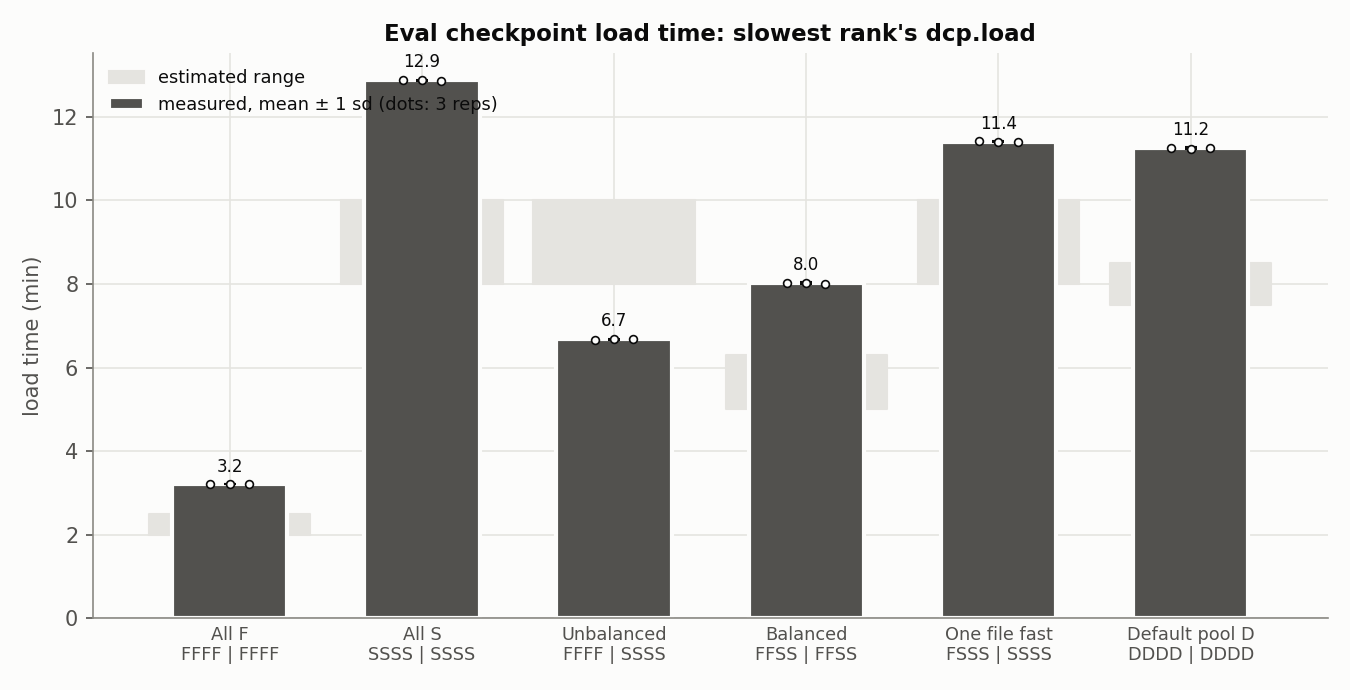
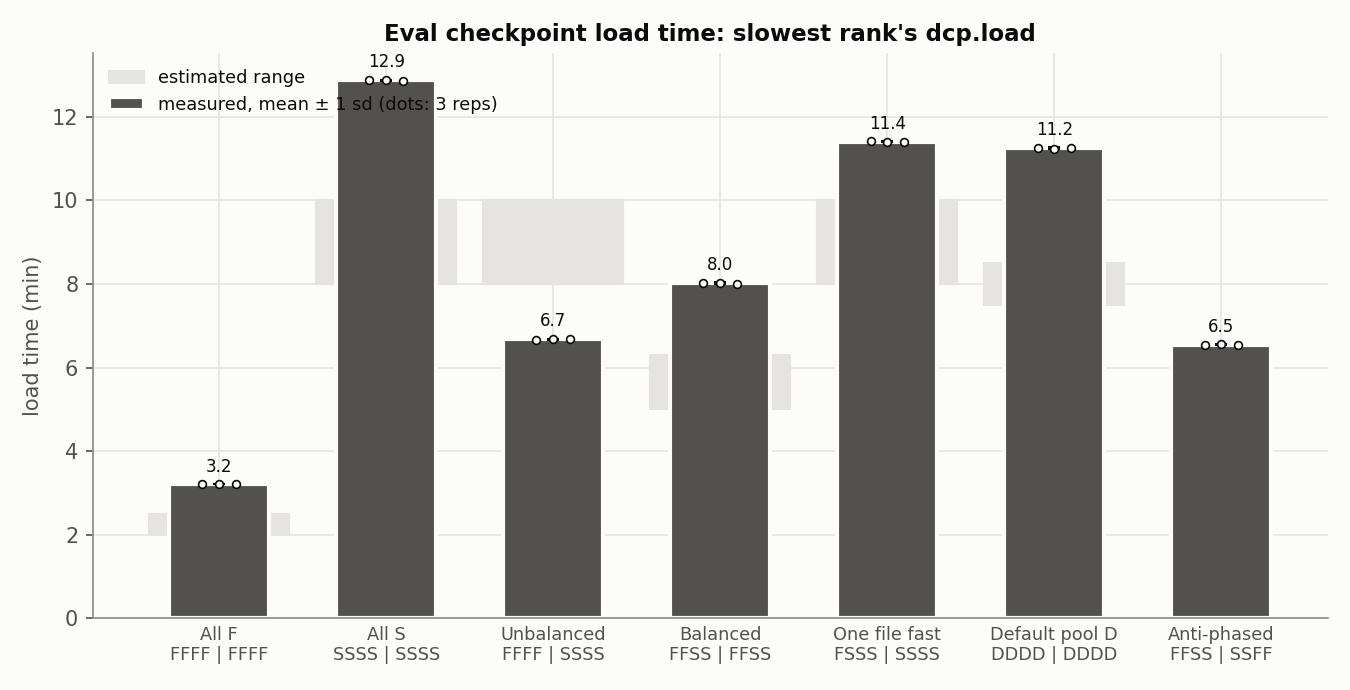
llm_v2 + anti-phased layout, FFSS | SSFF

diff --git a/scripts/workloads/llm_workload_version2/analyze_matrix.py b/scripts/workloads/llm_workload_version2/analyze_matrix.py
@@ -47,7 +47,8 @@ MiB = 1048576
 CHUNK = 512 * 1024
 
 LABEL = {"allF": "All F", "allS": "All S", "unbalanced": "Unbalanced",
-         "balanced": "Balanced", "onefast": "One file fast", "D": "Default pool D"}
+         "balanced": "Balanced", "onefast": "One file fast", "D": "Default pool D",
+         "antiphase": "Anti-phased"}
 # Estimated run time (minutes) from experiment_context.md, drawn as a band.
 PREDICTED = {"allF": (2, 2.5), "allS": (8, 10), "unbalanced": (8, 10),
              "balanced": (5, 6.3), "onefast": (8, 10), "D": (7.5, 8.5)}
@@ -59,7 +60,7 @@ INK, INK2, MUTED, GRID, SURF = "#0b0b0b", "#52514e", "#8a8983", "#e5e4e0", "#fcf
 MEDIUM_C = {"F": "#2a78d6", "S": "#eb6834", "F+S": "#1baf7a"}
 RANK_C = {0: "#52514e", 1: "#a8a7a0"}
 TOTAL_C = "#52514e"
-CATEGORICAL = ["#2a78d6", "#eb6834", "#1baf7a", "#eda100", "#e87ba4", "#008300"]
+CATEGORICAL = ["#2a78d6", "#eb6834", "#1baf7a", "#eda100", "#e87ba4", "#008300", "#7a5cc4"]
 
 plt.rcParams.update({
     "figure.facecolor": SURF, "axes.facecolor": SURF, "savefig.facecolor": SURF,
@@ -303,7 +304,7 @@ def fig_latency_cdf(all_ops, order, cfgs, out):
                                 "lat_ms"].to_numpy())
         if not len(v):
             continue
-        ax.plot(v, np.arange(1, len(v) + 1) / len(v), color=CATEGORICAL[k % 6],
+        ax.plot(v, np.arange(1, len(v) + 1) / len(v), color=CATEGORICAL[k % len(CATEGORICAL)],
                 linewidth=2, label=f"{LABEL.get(c, c)}  ({rank_pattern(cfgs, c)})")
     ax.set_xscale("log")
     ax.set_xlabel("payload read latency (ms, log scale)")

diff --git a/scripts/workloads/llm_workload_version2/results_oct_28/analysis/matrix_summary.md b/scripts/workloads/llm_workload_version2/results_oct_28/analysis/matrix_summary.md
@@ -1,0 +1,10 @@
+| Config | Rank 0 \| Rank 1 | Reps | Load time (min) | Estimate (min) | Rank 0 (min) | Rank 1 (min) | Agg BW (MiB/s) | Framing mean / p95 (ms) | Payload mean / p95 (ms) |
+|---|---|---|---|---|---|---|---|---|---|
+| All F | FFFF \| FFFF | 3 | 3.20 ± 0.00 | 2–2.5 | 3.16 ± 0.01 | 3.20 ± 0.00 | 89.5 ± 0.0 | 9 / 63 | 367 / 689 |
+| All S | SSSS \| SSSS | 3 | 12.87 ± 0.01 | 8–10 | 12.87 ± 0.01 | 12.83 ± 0.04 | 22.3 ± 0.0 | 28 / 176 | 1555 / 2818 |
+| Unbalanced | FFFF \| SSSS | 3 | 6.67 ± 0.02 | 8–10 | 1.72 ± 0.03 | 6.67 ± 0.02 | 42.9 ± 0.1 | 8 / 53 | 506 / 1387 |
+| Balanced | FFSS \| FFSS | 3 | 8.02 ± 0.02 | 5–6.3 | 8.02 ± 0.02 | 8.02 ± 0.03 | 35.7 ± 0.1 | 18 / 109 | 964 / 2758 |
+| One file fast | FSSS \| SSSS | 3 | 11.40 ± 0.01 | 8–10 | 10.24 ± 0.02 | 11.40 ± 0.01 | 25.1 ± 0.0 | 27 / 167 | 1292 / 2759 |
+| Default pool D | DDDD \| DDDD | 3 | 11.25 ± 0.02 | 7.5–8.5 | 11.25 ± 0.02 | 11.24 ± 0.03 | 25.5 ± 0.0 | 23 / 128 | 1366 / 2773 |
+
+± is one standard deviation across reps. Latency columns are the mean over reps of each run's per-read mean and p95.

diff --git a/scripts/workloads/llm_workload_version2/results/analysis/matrix_summary.md b/scripts/workloads/llm_workload_version2/results/analysis/matrix_summary.md
@@ -6,5 +6,6 @@
 | Balanced | FFSS \| FFSS | 3 | 8.02 ± 0.02 | 5–6.3 | 8.02 ± 0.02 | 8.02 ± 0.03 | 35.7 ± 0.1 | 18 / 109 | 964 / 2758 |
 | One file fast | FSSS \| SSSS | 3 | 11.40 ± 0.01 | 8–10 | 10.24 ± 0.02 | 11.40 ± 0.01 | 25.1 ± 0.0 | 27 / 167 | 1292 / 2759 |
 | Default pool D | DDDD \| DDDD | 3 | 11.25 ± 0.02 | 7.5–8.5 | 11.25 ± 0.02 | 11.24 ± 0.03 | 25.5 ± 0.0 | 23 / 128 | 1366 / 2773 |
+| Anti-phased | FFSS \| SSFF | 3 | 6.54 ± 0.01 | nan–nan | 6.54 ± 0.01 | 6.48 ± 0.01 | 43.8 ± 0.1 | 14 / 102 | 779 / 2735 |
 
 ± is one standard deviation across reps. Latency columns are the mean over reps of each run's per-read mean and p95.
